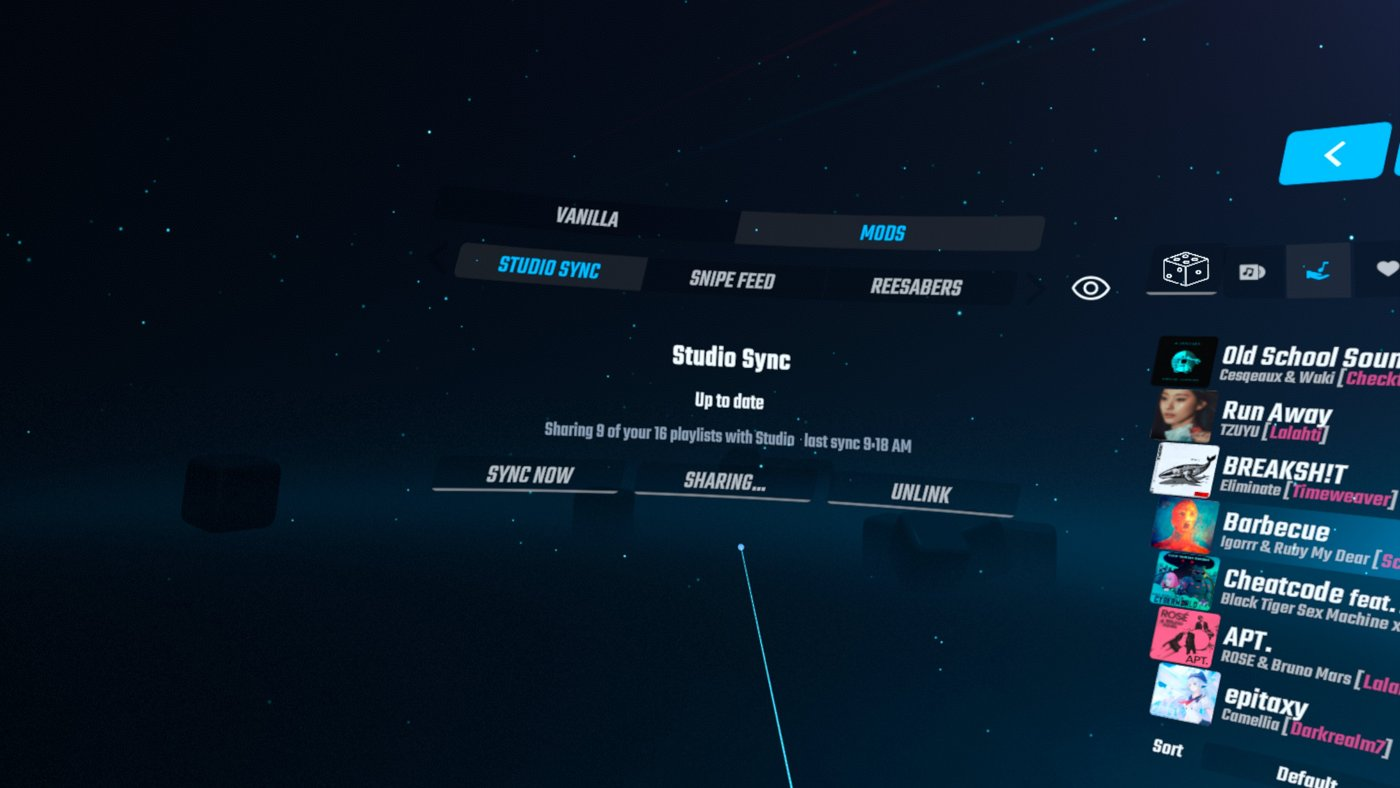
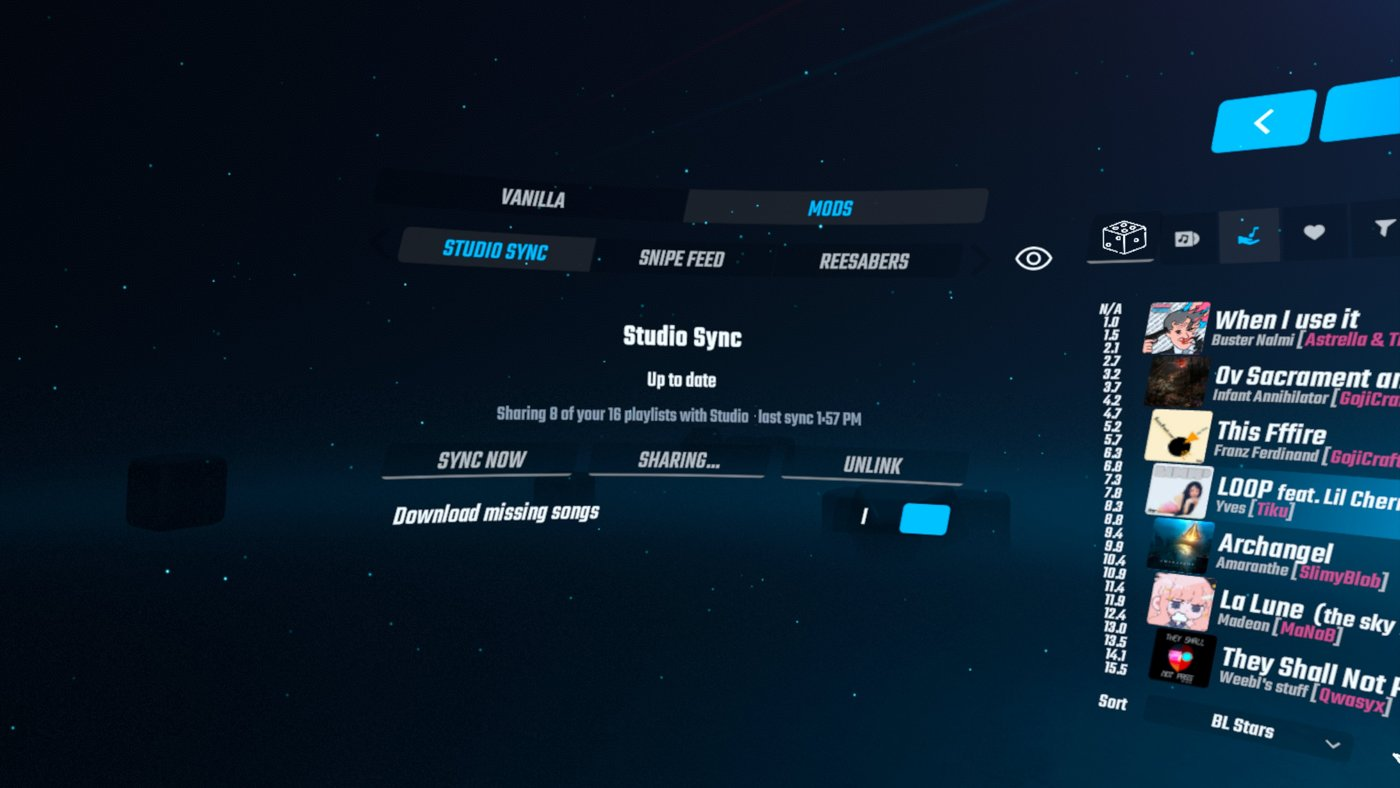
README: one screenshot of the 0.6.0 tab

diff --git a/README.md b/README.md
@@ -20,13 +20,9 @@ The headset syncs when the game starts, each time you return to the main menu (a
 - deletes a playlist when you press **Delete** in Studio. Nothing is erased: the playlist moves into its backups and shows in Studio under **Recently deleted** for 30 days, where **Restore** brings it back. After 30 days those backups are cleared.
 
 ## In game
-Studio Sync lives in the **Mods** tab beside song select, next to mods like ReeSabers.
+Studio Sync lives in the **Mods** tab beside song select, next to mods like ReeSabers. **Sharing...** picks which of your playlists Studio can see, and **Download missing songs** turns automatic song downloads on or off.
 
 ![Studio Sync tab in the Mods panel, linked and up to date](docs/tab.jpg)
-
-**Sharing...** opens the list of your playlists. Switch off any you don't want Studio to see.
-
-![Sharing list with a switch for each headset playlist](docs/sharing.jpg)
 
 ## What it touches
 - Playlists linked the older hosted way are its own `StudioSync_<id>.bplist` files in `ModData/com.beatgames.beatsaber/Mods/PlaylistManager/Playlists`, removed when you move them onto the headset. Your own playlists are only removed when you press **Delete** in Studio, and even then a copy stays in backups for 30 days. Playlists switched off under **Sharing...** can't be changed or deleted from Studio.
